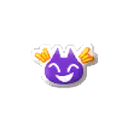
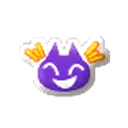
Keep status faces fully in frame on the cream cards.
Tighter crops, a tan well, and a light drop shadow so white thought bubbles stay visible and the face sits on the title row.

Changed region(s): [[0.1875, 0.2812, 0.875, 0.7812], [0.1875, 0.3125, 0.25, 0.3438], [0.375, 0.2812, 0.4062, 0.3125]]

diff --git a/src/components/StatusEmote.tsx b/src/components/StatusEmote.tsx
@@ -11,16 +11,16 @@ export function StatusEmote({
   return (
     <span
       className={cn(
-        "inline-flex size-12 shrink-0 items-center justify-center overflow-visible sm:size-14",
+        "inline-flex size-12 shrink-0 items-center justify-center overflow-visible rounded-full bg-[#f7e2b0] sm:size-14",
         className,
       )}
     >
       <img
         src={emoteSrc(name)}
         alt=""
-        width={52}
-        height={52}
-        className="block size-11 object-contain object-center sm:size-12"
+        width={48}
+        height={48}
+        className="block size-10 object-contain object-center drop-shadow-[0_1px_0_rgba(107,62,27,0.35)] sm:size-11"
       />
     </span>
   );

diff --git a/src/components/Advice.tsx b/src/components/Advice.tsx
@@ -22,7 +22,7 @@ export function Advice({
       role={hint.tone === "bad" ? "alert" : "status"}
       aria-live="polite"
       className={cn(
-        "overflow-visible rounded-[1.75rem] border-[5px] px-4 py-4 shadow-[0_6px_0_0_#c47a28] sm:px-5",
+        "overflow-visible rounded-[1.75rem] border-[5px] px-4 py-5 shadow-[0_6px_0_0_#c47a28] sm:px-5",
         toneClass[hint.tone],
       )}
     >

diff --git a/src/components/VisitStay.tsx b/src/components/VisitStay.tsx
@@ -15,7 +15,7 @@ export function VisitStay({ advice }: { advice: VisitAdvice | null }) {
     <div
       role="status"
       className={cn(
-        "overflow-visible rounded-[1.75rem] border-[5px] px-4 py-4 shadow-[0_6px_0_0_#c47a28] sm:px-5",
+        "overflow-visible rounded-[1.75rem] border-[5px] px-4 py-5 shadow-[0_6px_0_0_#c47a28] sm:px-5",
         toneClass[advice.tone],
       )}
     >

diff --git a/scripts/crop-status-art.py b/scripts/crop-status-art.py
@@ -50,13 +50,15 @@ def alpha_centroid(im: Image.Image) -> tuple[float, float]:
 def export_face(sheet: Image.Image, box: tuple[int, int, int, int], dest: Path) -> None:
     x0, y0, x1, y1 = box
     w, h = sheet.size
-    pad = 6
+    pad = 5
     cell = sheet.crop(
         (max(0, x0 - pad), max(0, y0 - pad), min(w, x1 + 1 + pad), min(h, y1 + 1 + pad))
     )
     cw, ch = cell.size
     cx, cy = alpha_centroid(cell)
-    margin = 18
+    # Keep a thin transparent rim so the sticker is not flush with the box,
+    # but fill most of the square so the face stays readable at 48px.
+    margin = 5
     left = cx + margin
     right = cw - cx + margin
     top = cy + margin
